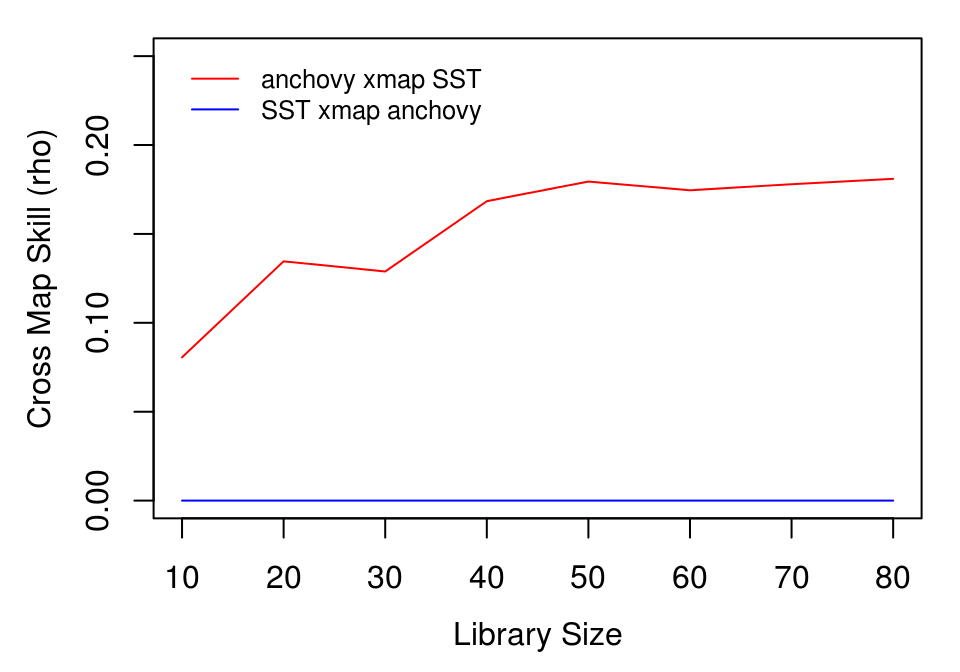
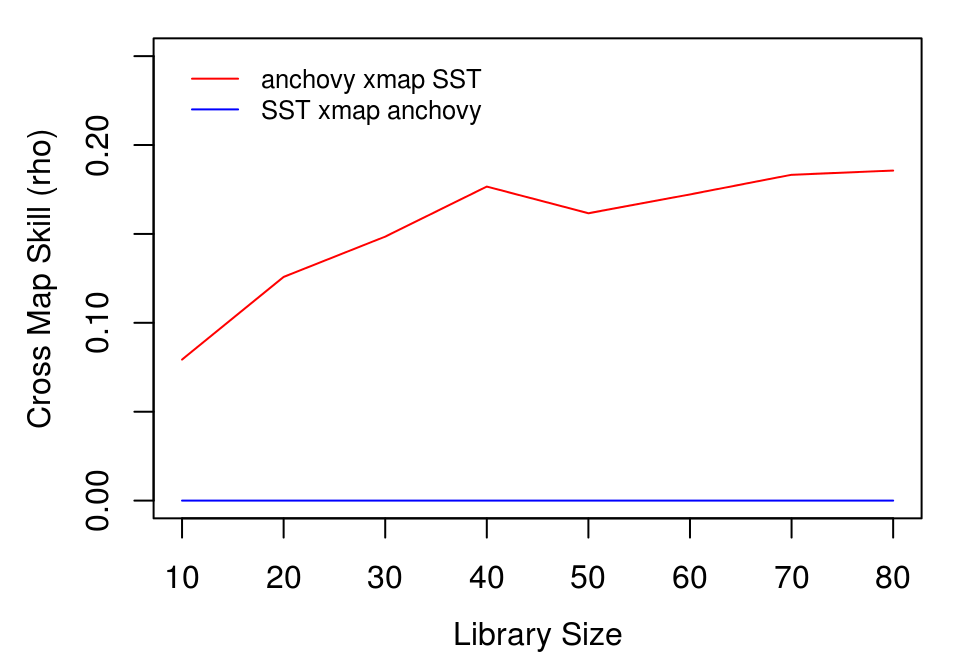
Deploy ha0ye/rEDM to github.com/ha0ye/rEDM.git:gh-pages

diff --git a/articles/rEDM.html b/articles/rEDM.html
@@ -487,9 +487,9 @@
 ##  $ target_column: Factor w/ 1 level "np_sst": 1 1 1 1 1 1 1 1 1 1 ...
 ##  $ lib_size     : num  10 10 10 10 10 10 10 10 10 10 ...
 ##  $ num_pred     : num  76 76 76 76 76 76 76 76 76 76 ...
-##  $ rho          : num  0.079 -0.0697 0.1626 0.2387 -0.0424 ...
-##  $ mae          : num  0.884 0.868 0.894 1.316 0.911 ...
-##  $ rmse         : num  1.15 1.09 1.11 1.6 1.15 ...</code></pre>
+##  $ rho          : num  0.1464 -0.1616 0.1828 0.2324 -0.0662 ...
+##  $ mae          : num  0.91 1.002 0.869 0.829 0.944 ...
+##  $ rmse         : num  1.15 1.21 1.09 1.03 1.16 ...</code></pre>
 <p>The output is a data.frame with statistics for each model run (in this case, 100 models at each of 8 library sizes). To interpret the results, we aggregate the cross map performance at each library size using the <code><a href="../reference/ccm_means.html">ccm_means()</a></code> function, which computes a mean value at each unique <code>lib_size</code>. Because average cross map skill less than 0 means there is no prediction skill, (predictions should not be anticorrelated with observations), we set negative values to 0 when plotting.</p>
 <div class="sourceCode" id="cb35"><pre class="sourceCode r"><code class="sourceCode r"><a class="sourceLine" id="cb35-1" data-line-number="1">a_xmap_t_means &lt;-<span class="st"> </span><span class="kw"><a href="../reference/ccm_means.html">ccm_means</a></span>(anchovy_xmap_sst)</a>
 <a class="sourceLine" id="cb35-2" data-line-number="2">t_xmap_a_means &lt;-<span class="st"> </span><span class="kw"><a href="../reference/ccm_means.html">ccm_means</a></span>(sst_xmap_anchovy)</a>

diff --git a/index.html b/index.html
@@ -209,7 +209,8 @@
 <ul class="list-unstyled">
 <li><a href="https://travis-ci.com/ha0ye/rEDM"><img src="https://travis-ci.com/ha0ye/rEDM.svg?branch=master" alt="Build Status"></a></li>
 <li><a href="https://doi.org/10.5281/zenodo.596502"><img src="https://zenodo.org/badge/DOI/10.5281/zenodo.596502.svg" alt="DOI"></a></li>
-<li><a href="https://cran.rstudio.com/web/packages/rEDM/index.html"><img src="https://cranlogs.r-pkg.org/badges/grand-total/rEDM" alt="CRAN downloads"></a></li>
+<li><a href="https://codecov.io/gh/ha0ye/rEDM"><img src="https://codecov.io/gh/ha0ye/rEDM/branch/master/graph/badge.svg" alt="codecov"></a></li>
+<li><a href="https://cran.rstudio.com/web/packages/rEDM/index.html"><img src="https://cranlogs.r-pkg.org/badges/grand-total/rEDM" alt="downloads"></a></li>
 </ul>
 </div>
 </div>
